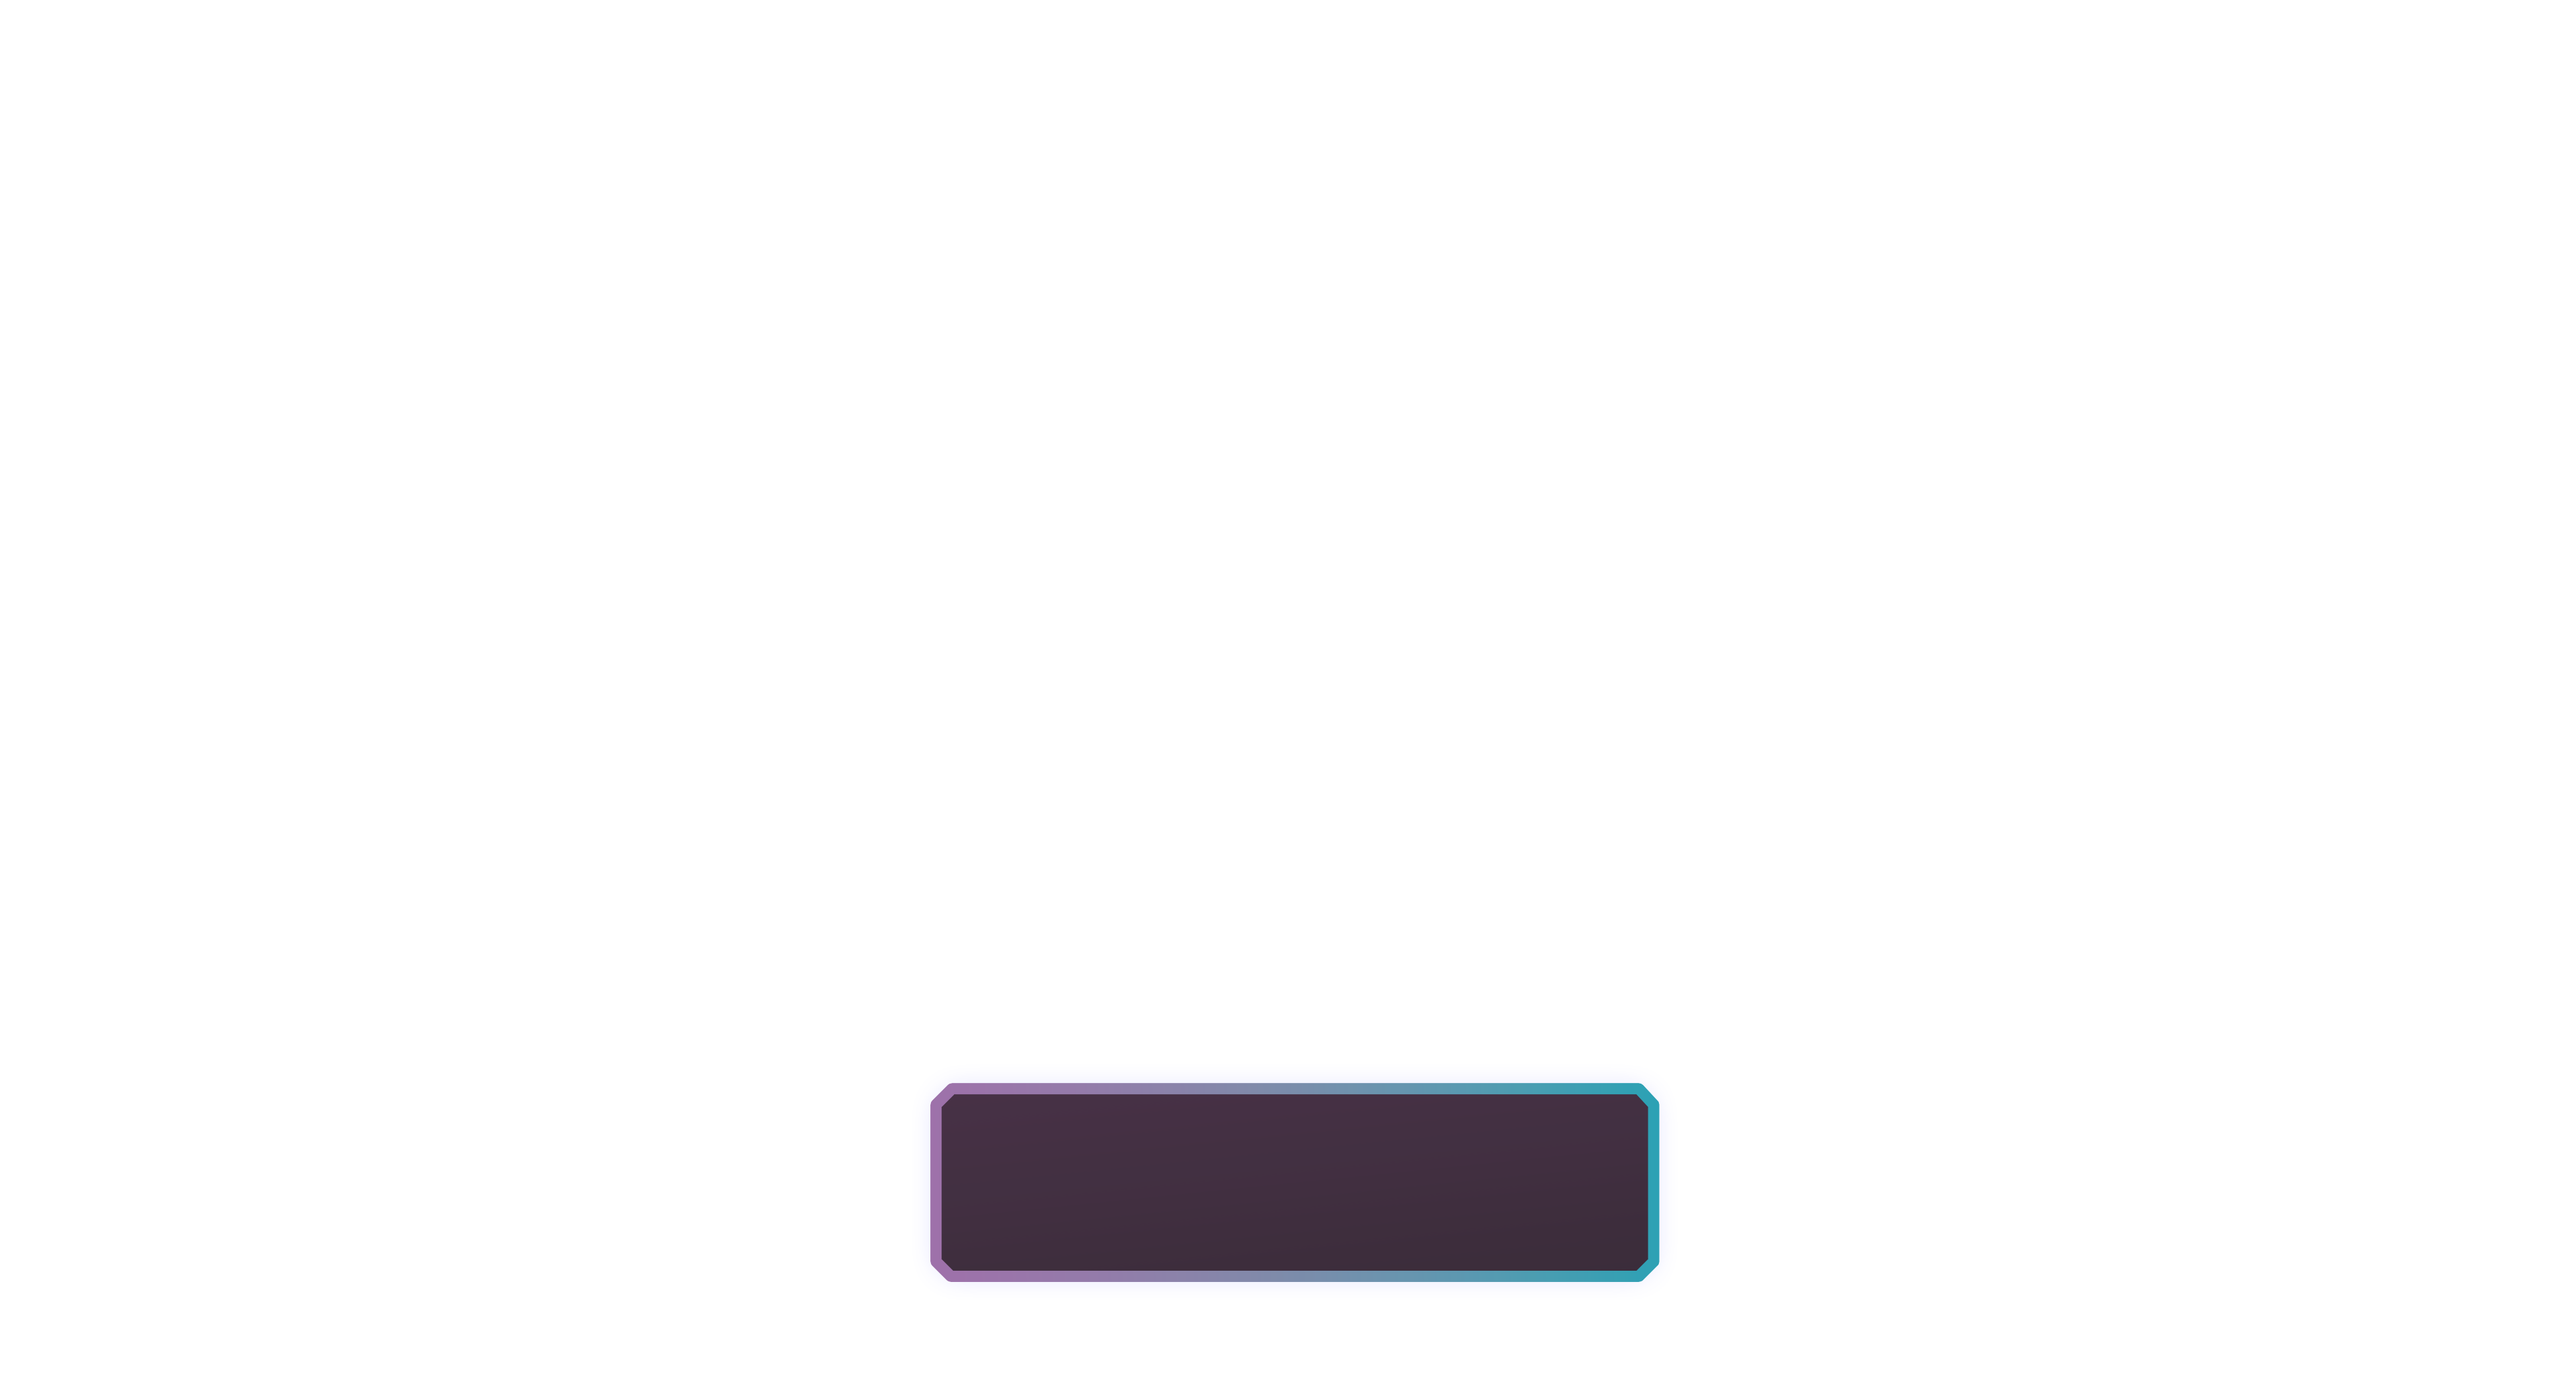
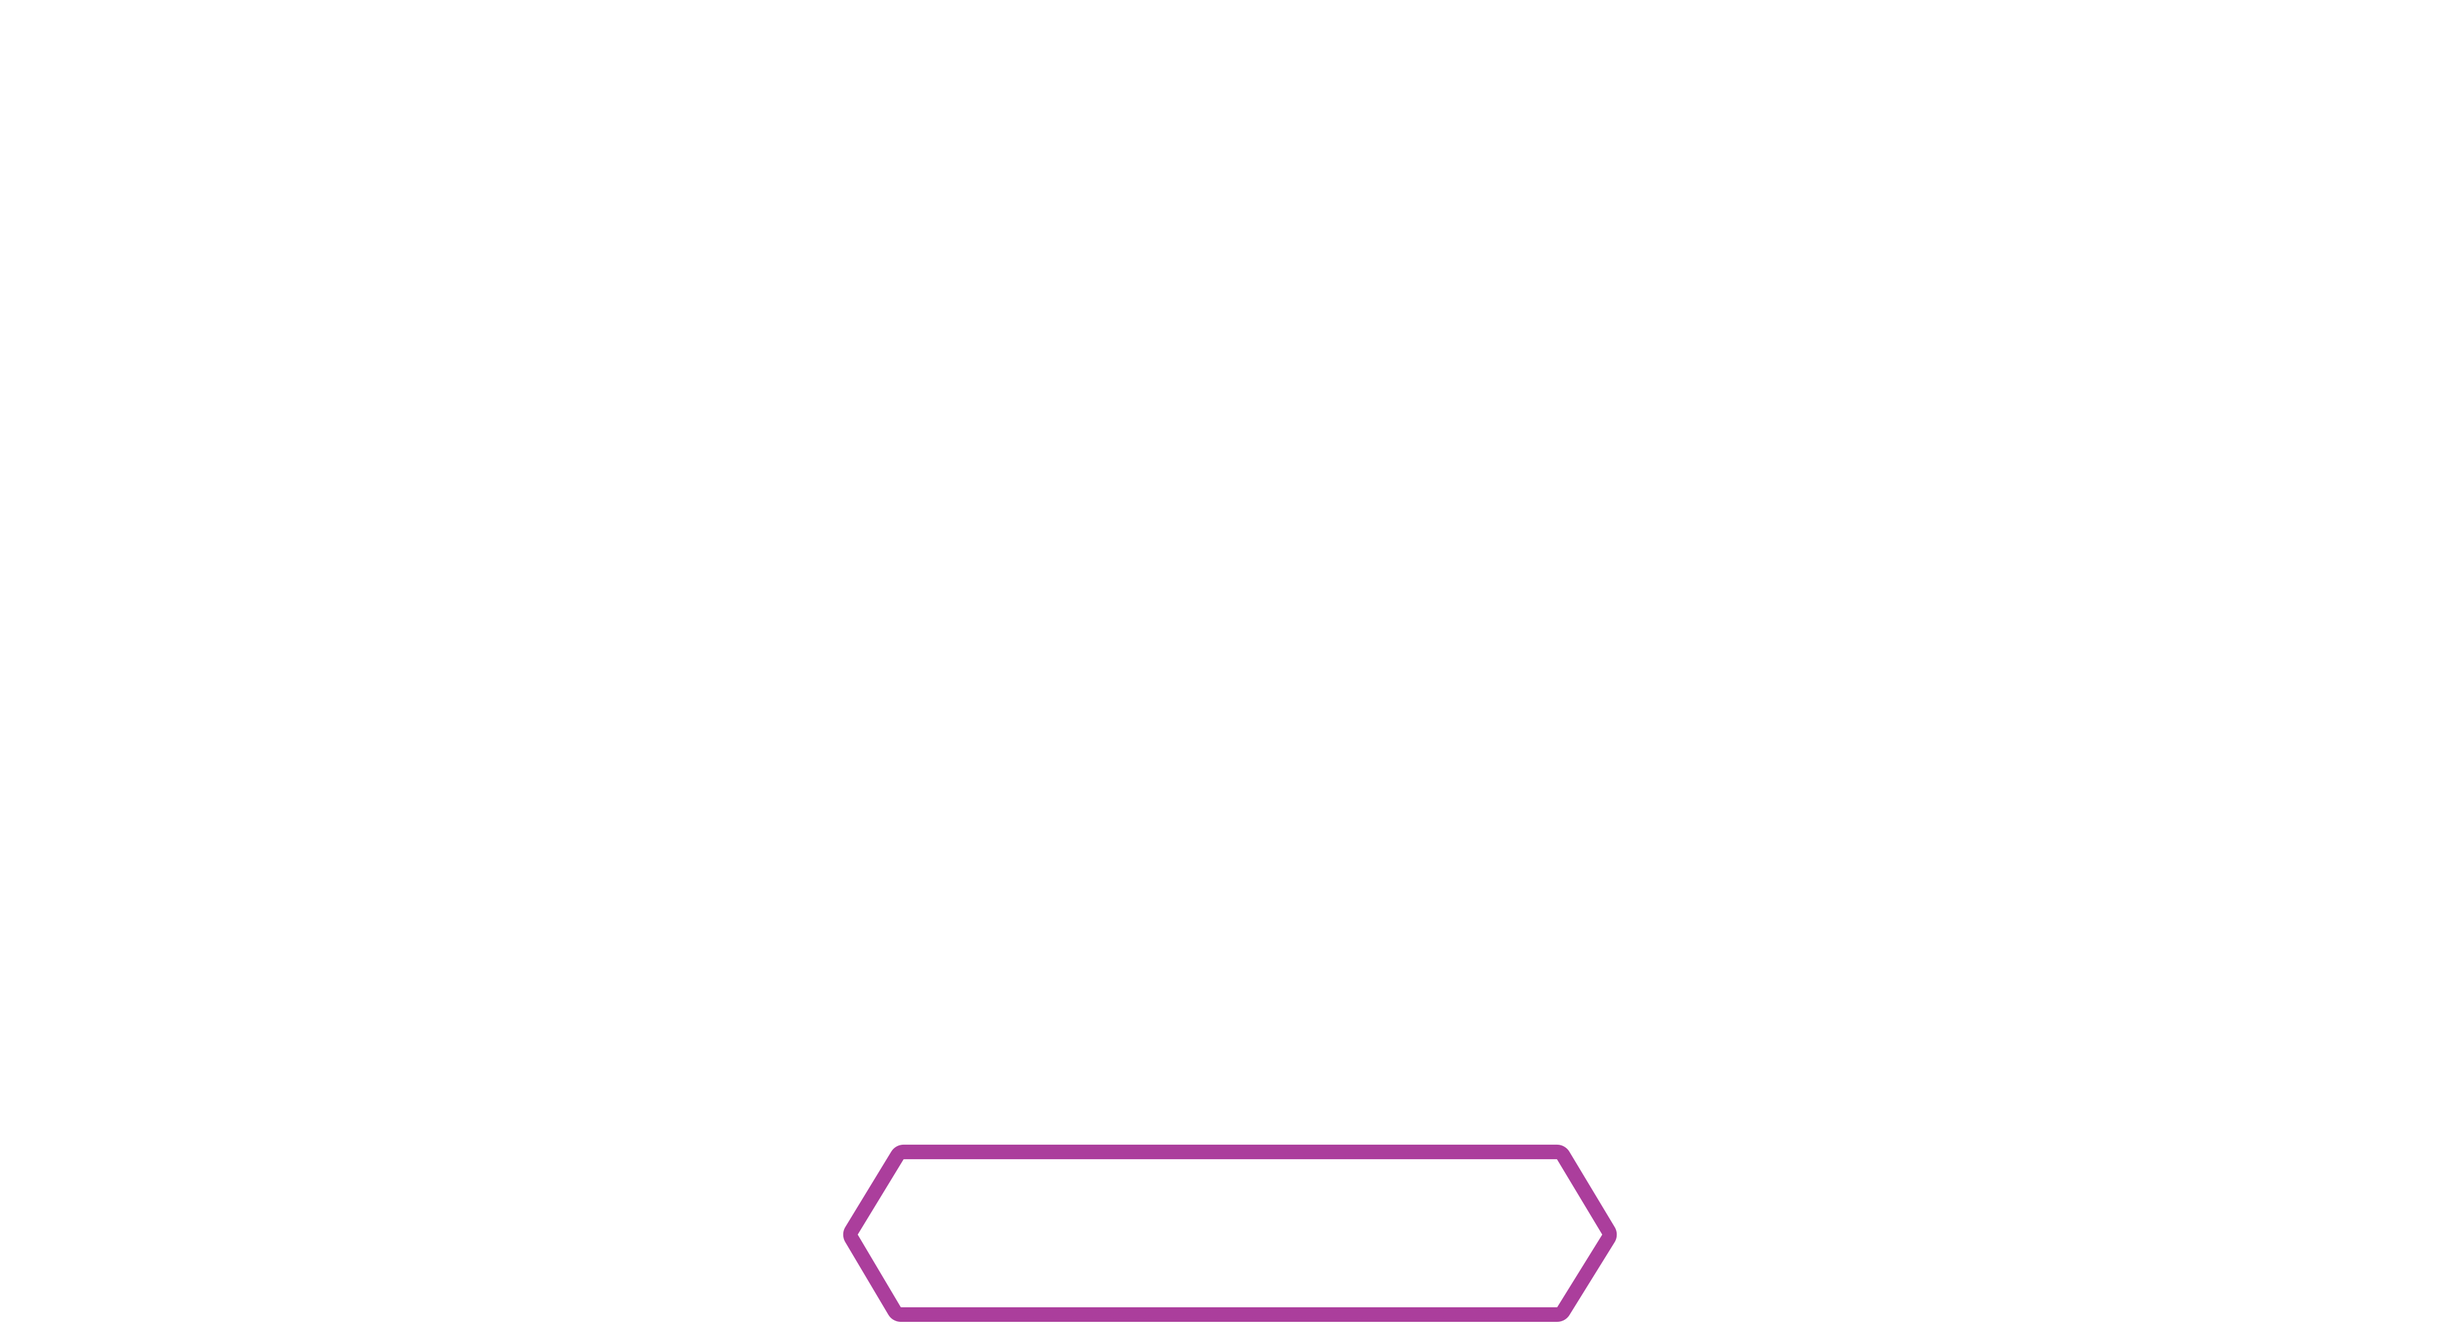
fix quiz and task description frames

Changed region(s): [[0.3431, 0.7762, 0.655, 0.9936]]

diff --git a/src/scss/style.scss b/src/scss/style.scss
@@ -359,26 +359,6 @@
     }
 }
 
-.button-task-action {
-    position: relative;
-    display: flex;
-    align-items: center;
-    justify-content: center;
-    background-image: url('../../static/interface/Task_Shape_button_action_s.png');
-    background-repeat: no-repeat;
-    background-size: contain;
-    pointer-events: auto;
-    aspect-ratio: 572/171;
-    width: 100%;
-    font-size: var(--font-size-text);
-    cursor: pointer;
-
-    &.active,
-    &:hover {
-        background-image: url('../../static/interface/Task_Shape_button_active_s.png');
-    }
-}
-
 /* #endregion */
 
 /* #region Masks */
@@ -872,11 +852,11 @@ $themes: (
     &_box {
         position: relative;
         width: clamp(48rem, 65vw, 100%);
-        background-image: url('../../static/frames/Task_Shape.png');
+        background-image: url('../../static/frames/Task_Shape_frame.png');
         background-repeat: no-repeat;
         background-size: contain;
-        aspect-ratio: 974/529;
-        padding: 8% 5% 7%;
+        aspect-ratio: 3719/2029;
+        padding: 6% 3%;
         display: flex;
         flex-flow: column nowrap;
         gap: 5%;
@@ -885,7 +865,7 @@ $themes: (
 
     &_heading {
         position: absolute;
-        top: 7.5%;
+        top: 4.25%;
         left: 50%;
         transform: translateX(-50%);
         font-size: var(--font-size-heading);
@@ -909,11 +889,29 @@ $themes: (
         }
     }
 
-
     &_actions {
-        width: 19vw;
+        aspect-ratio: 3719/2029;
+        background-image: url('../../static/interface/Task_Shape_button_active.png');
+        background-repeat: no-repeat;
+        background-size: contain;
         position: absolute;
-        bottom: 0%;
+        inset: 0;
+
+        button {
+            position: absolute;
+            left: 50%;
+            transform: translateX(-50%);
+            bottom: 1%;
+            height: 14%;
+            width: 30%;
+            pointer-events: auto;
+            font-size: var(--font-size-text);
+            cursor: pointer;
+        }
+
+        &:hover {
+            background-image: url('../../static/interface/Task_Shape_button_action.png');
+        }
     }
 }
 
@@ -1010,6 +1008,10 @@ $themes: (
 
 #quiz-game {
 
+    #quiz-wrapper {
+        width: clamp(10rem, 50vw, 100%);
+    }
+
     .task-container_box {
         background-image: url('../../static/frames/Quiz_window.png');
         aspect-ratio: 3721/1879;
@@ -1091,10 +1093,6 @@ $themes: (
     }
 
     .quiz-item {
-        >div {
-            margin-inline: auto;
-            width: clamp(20rem, 45vw, 100%);
-        }
 
         textarea {
             width: 100%;

diff --git a/src/Experience/Components/Quiz.js b/src/Experience/Components/Quiz.js
@@ -40,8 +40,8 @@ export default class Quiz {
 
     quizHTML() {
         instance.quizContainer = _gl.elementFromHtml(`
-        <div class="absolute inset-0 task-container grid place-content-center" id="quiz-game">
-            <div class="relative mx-auto task-container_box group/quiz flex flex-col">
+        <div class="absolute inset-0 task-container" id="quiz-game">
+            <div class="task-container_box group/quiz flex flex-col">
                 <div class="progress-bar-container">
                     <div class="progress-bar-background">
                         <div class="progress-bar-foreground" id="progress-bar-quiz"></div>
